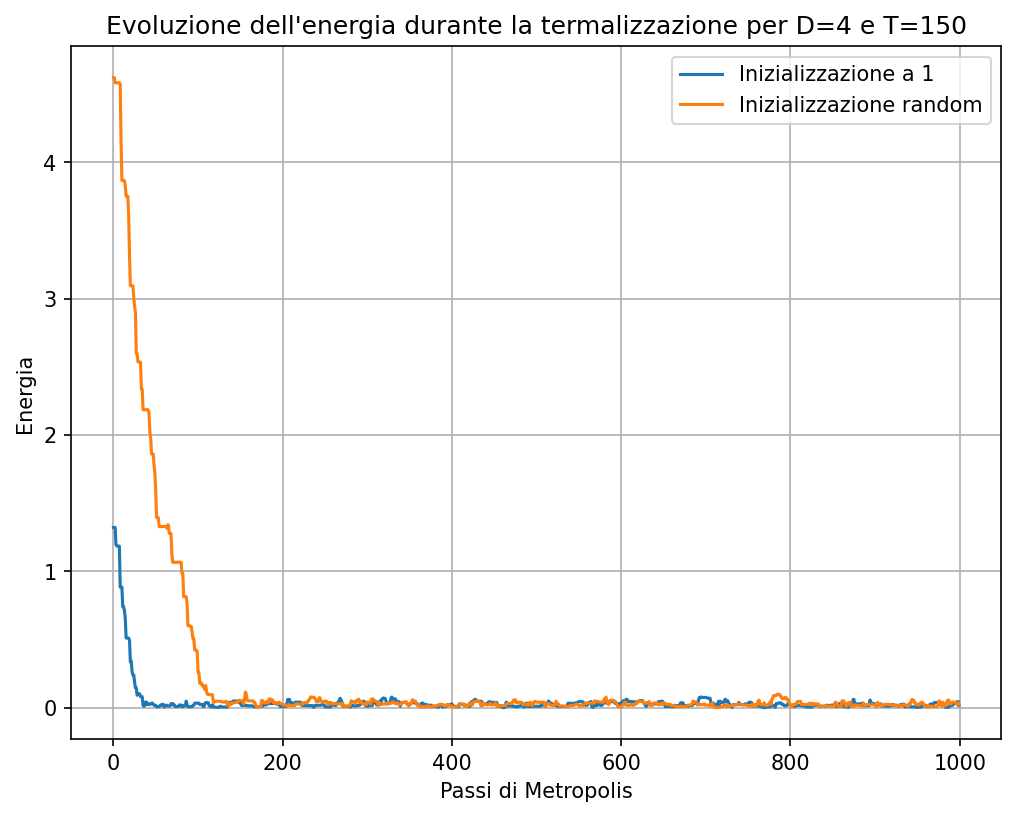
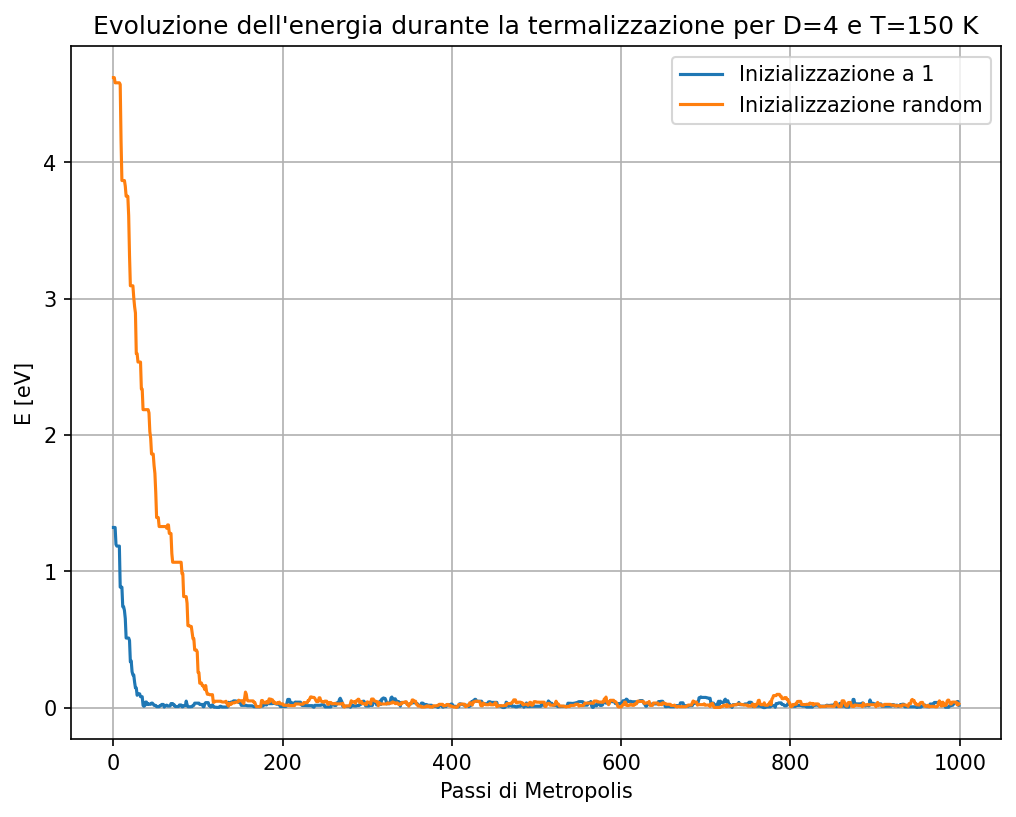
changes

Changed region(s): [[0.0915, 0.0, 0.9764, 0.0612], [0.0, 0.4284, 0.0305, 0.5202]]

diff --git a/source/plot.py b/source/plot.py
@@ -16,8 +16,8 @@ def plot_thermalization_energies(trajectory1,trajectoryR, T, D, n_steps, V: Call
     plt.plot(jnp.arange(n_steps), jax.vmap(V)(trajectory1), label="Inizializzazione a 1")
     plt.plot(jnp.arange(n_steps), jax.vmap(V)(trajectoryR), label="Inizializzazione random")
     plt.xlabel("Passi di Metropolis")
-    plt.ylabel("Energia")
-    plt.title("Evoluzione dell'energia durante la termalizzazione per D={} e T={}".format(D, T))
+    plt.ylabel("E [eV]")
+    plt.title("Evoluzione dell'energia durante la termalizzazione per D={} e T={} K".format(D, T))
     plt.legend()
     plt.grid()
     filename = f"thermalization_energies_D{D}_T{T:.2f}.png"
@@ -28,72 +28,60 @@ def plot_thermalization_energies(trajectory1,trajectoryR, T, D, n_steps, V: Call
 
 def plot_obs_D_T(results, dimensions, observable, error=None, a=None, b=None):
     _ensure_report_dir()
-    if error is None:
-        plt.figure(figsize=(8,6))
 
-        for D in dimensions:
+    label = observable.replace('_', ' ').capitalize()
+    if observable == "E_mean":
+        label += " [eV]"
+    elif observable == "Cv":
+        label += " [eV/K]"
+
+    plt.figure(figsize=(8, 6))
+
+    for D in dimensions:
+        if error is None:
             plt.plot(
                 results[D]["T"],
                 results[D][observable],
                 marker='o',
                 label=f"D={D}"
             )
-
-        plt.xlabel("Temperatura")
-        plt.ylabel(observable.replace('_', ' ').capitalize())
-        plt.title(f"{observable.replace('_', ' ').capitalize()} vs Temperatura")
-        plt.legend(loc="upper right")
-        plt.grid()
-
-        if a is not None and b is not None:
-            param_text = (rf"$a = {a:.3f}$" + "\n" + rf"$b = {b:.3f}$")
-
-            plt.text(0.05, 0.95,param_text, transform=plt.gca().transAxes,fontsize=11,
-                verticalalignment="top",
-                bbox=dict(
-                    boxstyle="round",
-                    facecolor="white",
-                    edgecolor="black",
-                    alpha=0.9)           )
-
-        filename = f"{observable}_vs_T.png"
-        filepath = os.path.join(REPORT_DIR, filename)
-        plt.savefig(filepath, dpi=150, bbox_inches="tight")
-        print(f"Grafico salvato in: {filepath}")
-        plt.close()
-    else: # plot with error bars
-        plt.figure(figsize=(8,6))
-
-        for D in dimensions:
+        else:
             plt.errorbar(
-                    results[D]["T"],
-                    results[D][observable],
-                    yerr=results[D][f"{observable}_err"],
-                    marker='o',
-                    label=f"D={D}"
-                )
-        plt.xlabel("Temperatura")
-        plt.ylabel(observable.replace('_', ' ').capitalize())
-        plt.title(f"{observable.replace('_', ' ').capitalize()} vs Temperatura")
-        plt.legend()
-        plt.grid()
+                results[D]["T"],
+                results[D][observable],
+                yerr=results[D][f"{observable}_err"],
+                marker='o',
+                label=f"D={D}"
+            )
 
-        if a is not None and b is not None:
-            param_text = (rf"$a = {a:.3f}$" + "\n" + rf"$b = {b:.3f}$")
+    plt.xlabel("T [K]")
+    plt.ylabel(label)
+    plt.title(f"{label} vs T")
+    plt.legend(loc="upper right")
+    plt.grid()
 
-            plt.text(0.05, 0.95,param_text, transform=plt.gca().transAxes,fontsize=11,
-                verticalalignment="top",
-                bbox=dict(
-                    boxstyle="round",
-                    facecolor="white",
-                    edgecolor="black",
-                    alpha=0.9)           )
+    if a is not None and b is not None:
+        param_text = (rf"$a = {a:.3f}$" + "\n" + rf"$b = {b:.3f}$")
 
-        filename = f"{observable}_vs_T.png"
-        filepath = os.path.join(REPORT_DIR, filename)
-        plt.savefig(filepath, dpi=150, bbox_inches="tight")
-        print(f"Grafico salvato in: {filepath}")
-        plt.close()
+        plt.text(
+            0.05, 0.05, param_text,
+            transform=plt.gca().transAxes,
+            fontsize=11,
+            verticalalignment="bottom",
+            horizontalalignment="left",
+            bbox=dict(
+                boxstyle="round",
+                facecolor="white",
+                edgecolor="black",
+                alpha=0.9
+            )
+        )
+
+    filename = f"{observable}_vs_T.png"
+    filepath = os.path.join(REPORT_DIR, filename)
+    plt.savefig(filepath, dpi=150, bbox_inches="tight")
+    print(f"Grafico salvato in: {filepath}")
+    plt.close()
 
 def plot_tau(results, dimensions, a=None, b=None):
     _ensure_report_dir()
@@ -121,9 +109,9 @@ def plot_tau(results, dimensions, a=None, b=None):
                     alpha=0.9)           )
 
     plt.yscale('symlog', linthresh=10)
-    plt.xlabel("Temperatura")
+    plt.xlabel("T [K]")
     plt.ylabel("Tau")
-    plt.title("Tempo di autocorrelazione integrato di x1 vs Temperatura")
+    plt.title("Tempo di autocorrelazione integrato di x1 vs T")
     plt.legend()
     plt.grid()
 
